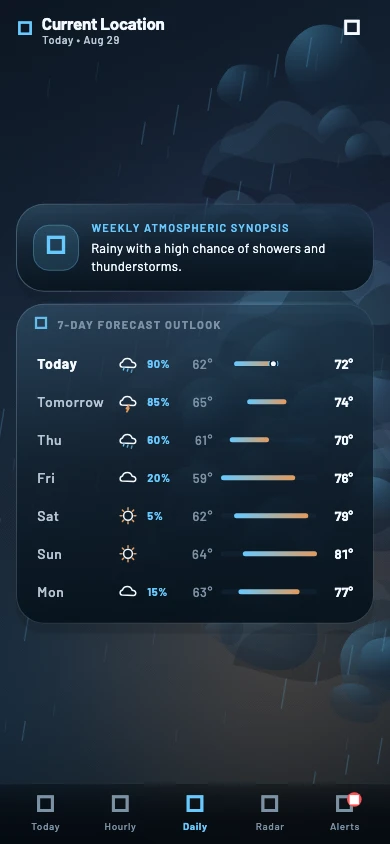
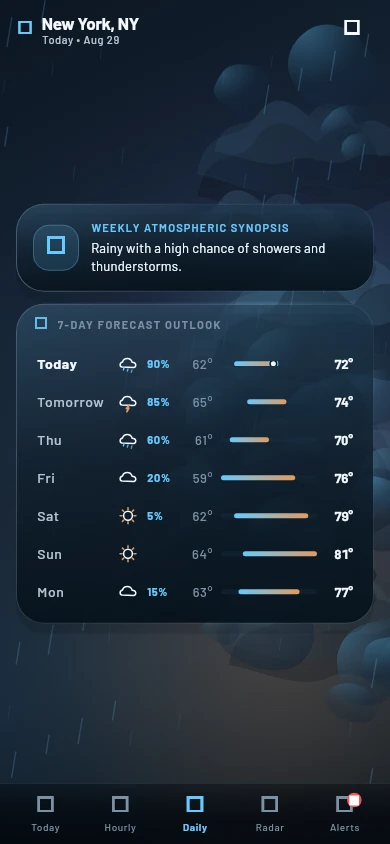
chore(weatheros): update storefront screenshots to v1.0.6 New York captures and align App Store CTAs

diff --git a/weatheros.html b/weatheros.html
@@ -3,8 +3,8 @@
 <head>
   <meta charset="UTF-8" />
   <meta name="viewport" content="width=device-width, initial-scale=1.0, viewport-fit=cover" />
-  <title>WeatherOS — Clean, Ad-Free Weather App for iOS &amp; Android ($0.99)</title>
-  <meta name="description" content="WeatherOS is a clean, ad-free weather app for Android and iPhone ($0.99). Real-time rain radar sync, 7-day visual forecasts, and severe storm alerts with zero ad tracking." />
+  <title>WeatherOS by OTP — Clean, Ad-Free Weather App for iOS &amp; Android ($0.99)</title>
+  <meta name="description" content="WeatherOS by OTP is a clean, ad-free weather app for iPhone and Android ($0.99). Real-time rain radar sync, 7-day visual forecasts, and severe storm alerts with zero ad tracking." />
   <meta name="keywords" content="WeatherOS, ad-free weather app, private weather app, weather app no subscription, dark mode weather app, live radar weather app, iPhone weather app, Android weather app, 7-day forecast app, severe storm alerts, OnlyTruePerspective" />
   <meta name="theme-color" content="#030305" />
   <meta name="color-scheme" content="dark light" />
@@ -14,12 +14,12 @@
   <meta property="og:type" content="website" />
   <meta property="og:site_name" content="OnlyTruePerspective" />
   <meta property="og:url" content="https://www.onlytrueperspective.tech/weatheros" />
-  <meta property="og:title" content="WeatherOS — Clean, Ad-Free Weather App ($0.99)" />
-  <meta property="og:description" content="Live rain radar sync, 7-day visual forecasts, and severe storm alerts in a sleek dark design. Zero ads, zero subscriptions, and no ad tracking." />
+  <meta property="og:title" content="WeatherOS by OTP — Clean, Ad-Free Weather App ($0.99)" />
+  <meta property="og:description" content="Now live on the Apple App Store and Google Play. Live rain radar sync, 7-day visual forecasts, and severe storm alerts in a sleek dark design." />
   <meta property="og:image" content="https://www.onlytrueperspective.tech/assets/weatheros/screenshots/today-public.png" />
   <meta name="twitter:card" content="summary_large_image" />
-  <meta name="twitter:title" content="WeatherOS — Clean, Ad-Free Weather App ($0.99)" />
-  <meta name="twitter:description" content="Live rain radar sync, 7-day visual forecasts, and severe storm alerts in a sleek dark design. Zero ads, zero subscriptions, and no ad tracking." />
+  <meta name="twitter:title" content="WeatherOS by OTP — Clean, Ad-Free Weather App ($0.99)" />
+  <meta name="twitter:description" content="Now live on the Apple App Store and Google Play. Live rain radar sync, 7-day visual forecasts, and severe storm alerts in a sleek dark design." />
   <meta name="twitter:image" content="https://www.onlytrueperspective.tech/assets/weatheros/screenshots/today-public.png" />
 
   <!-- Schema.org Structured Data -->
@@ -1189,7 +1189,7 @@
 
       <div class="w-badge-pill">
         <span class="w-badge-dot"></span>
-        <span>WeatherOS v1.0.4 · The Ad-Free Weather App</span>
+        <span>WeatherOS by OTP · Now Live on iOS &amp; Android</span>
       </div>
 
       <h1 class="w-hero-title">
@@ -1223,17 +1223,17 @@
           </div>
         </a>
 
-        <!-- Apple App Store (In Review / Coming Soon) -->
-        <div class="w-store-btn disabled" aria-disabled="true" title="iOS version is currently in App Store review">
+        <!-- Apple App Store (Live) -->
+        <a href="https://apps.apple.com/ai/app/weatheros-by-otp/id6803727019" target="_blank" rel="noopener noreferrer" class="w-store-btn primary" title="Get WeatherOS by OTP on the Apple App Store">
           <svg class="w-store-icon" viewBox="0 0 24 24" fill="currentColor">
             <path d="M18.71 19.5c-.83 1.24-1.71 2.45-3.05 2.47-1.34.03-1.77-.79-3.29-.79-1.53 0-2 .77-3.27.82-1.31.05-2.3-1.32-3.14-2.53C4.25 17 2.94 12.45 4.7 9.39c.87-1.52 2.43-2.48 4.12-2.51 1.28-.02 2.5.87 3.29.87.78 0 2.26-1.07 3.81-.91.65.03 2.47.26 3.64 1.98-.09.06-2.17 1.28-2.15 3.81.03 3.02 2.65 4.03 2.68 4.04-.03.07-.42 1.44-1.38 2.83M15.97 6.86c.62-.77 1.04-1.84.93-2.91-.9.04-2 .6-2.65 1.36-.58.67-.99 1.76-.88 2.8 1 .08 2-.48 2.6-1.25z"/>
           </svg>
           <div class="w-store-text">
-            <span class="w-store-sub">App Store</span>
-            <span class="w-store-main">Coming Soon</span>
-            <span class="w-status-badge">In Review</span>
+            <span class="w-store-sub">Available Now On</span>
+            <span class="w-store-main">App Store</span>
+            <span class="w-status-badge">Live</span>
           </div>
-        </div>
+        </a>
       </div>
 
       <div class="w-trust-strip">
@@ -1252,7 +1252,7 @@
         <div class="w-phone-card">
           <picture>
             <source srcset="/assets/weatheros/screenshots/today-public.webp" type="image/webp" />
-            <img src="/assets/weatheros/screenshots/today-public.png" alt="WeatherOS Today screen showing real-time atmospheric rainfall in Current Location with hourly forecast and 7-day outlook" width="390" height="844" loading="eager" decoding="async" />
+            <img src="/assets/weatheros/screenshots/today-public.png" alt="WeatherOS Today screen showing real-time atmospheric rainfall in New York, NY with hourly forecast and 7-day outlook" width="390" height="844" loading="eager" decoding="async" />
           </picture>
         </div>
       </div>
@@ -1482,7 +1482,7 @@
               <td class="w-specs-label">Platforms &amp; Availability</td>
               <td class="w-specs-val">
                 <strong>Android 10.0+:</strong> Available Now on Google Play<br />
-                <strong>iOS 15.0+:</strong> In App Store Review · Coming Soon
+                <strong>iOS 15.0+:</strong> Available Now on the Apple App Store as WeatherOS by OTP
               </td>
             </tr>
             <tr>
@@ -1514,7 +1514,7 @@
     <section class="w-bottom-cta" id="download">
       <h2>Get WeatherOS Today.</h2>
       <p>
-        Available now on Google Play for $0.99. No ads, no monthly subscriptions, and no ad tracking.
+        Available now on the Apple App Store and Google Play for $0.99. No ads, no monthly subscriptions, and no ad tracking.
       </p>
 
       <div class="w-store-buttons" style="margin-bottom: 0;">
@@ -1529,17 +1529,17 @@
           </div>
         </a>
 
-        <!-- Apple App Store (In Review / Coming Soon) -->
-        <div class="w-store-btn disabled" aria-disabled="true" title="iOS version is currently in App Store review">
+        <!-- Apple App Store (Live) -->
+        <a href="https://apps.apple.com/ai/app/weatheros-by-otp/id6803727019" target="_blank" rel="noopener noreferrer" class="w-store-btn primary" title="Get WeatherOS by OTP on the Apple App Store">
           <svg class="w-store-icon" viewBox="0 0 24 24" fill="currentColor">
             <path d="M18.71 19.5c-.83 1.24-1.71 2.45-3.05 2.47-1.34.03-1.77-.79-3.29-.79-1.53 0-2 .77-3.27.82-1.31.05-2.3-1.32-3.14-2.53C4.25 17 2.94 12.45 4.7 9.39c.87-1.52 2.43-2.48 4.12-2.51 1.28-.02 2.5.87 3.29.87.78 0 2.26-1.07 3.81-.91.65.03 2.47.26 3.64 1.98-.09.06-2.17 1.28-2.15 3.81.03 3.02 2.65 4.03 2.68 4.04-.03.07-.42 1.44-1.38 2.83M15.97 6.86c.62-.77 1.04-1.84.93-2.91-.9.04-2 .6-2.65 1.36-.58.67-.99 1.76-.88 2.8 1 .08 2-.48 2.6-1.25z"/>
           </svg>
           <div class="w-store-text">
-            <span class="w-store-sub">App Store</span>
-            <span class="w-store-main">Coming Soon</span>
-            <span class="w-status-badge">In Review</span>
+            <span class="w-store-sub">Available Now On</span>
+            <span class="w-store-main">App Store</span>
+            <span class="w-status-badge">Live</span>
           </div>
-        </div>
+        </a>
       </div>
     </section>
 

diff --git a/weatheros/index.html b/weatheros/index.html
@@ -3,8 +3,8 @@
 <head>
   <meta charset="UTF-8" />
   <meta name="viewport" content="width=device-width, initial-scale=1.0, viewport-fit=cover" />
-  <title>WeatherOS — Clean, Ad-Free Weather App for iOS &amp; Android ($0.99)</title>
-  <meta name="description" content="WeatherOS is a clean, ad-free weather app for Android and iPhone ($0.99). Real-time rain radar sync, 7-day visual forecasts, and severe storm alerts with zero ad tracking." />
+  <title>WeatherOS by OTP — Clean, Ad-Free Weather App for iOS &amp; Android ($0.99)</title>
+  <meta name="description" content="WeatherOS by OTP is a clean, ad-free weather app for iPhone and Android ($0.99). Real-time rain radar sync, 7-day visual forecasts, and severe storm alerts with zero ad tracking." />
   <meta name="keywords" content="WeatherOS, ad-free weather app, private weather app, weather app no subscription, dark mode weather app, live radar weather app, iPhone weather app, Android weather app, 7-day forecast app, severe storm alerts, OnlyTruePerspective" />
   <meta name="theme-color" content="#030305" />
   <meta name="color-scheme" content="dark light" />
@@ -14,12 +14,12 @@
   <meta property="og:type" content="website" />
   <meta property="og:site_name" content="OnlyTruePerspective" />
   <meta property="og:url" content="https://www.onlytrueperspective.tech/weatheros" />
-  <meta property="og:title" content="WeatherOS — Clean, Ad-Free Weather App ($0.99)" />
-  <meta property="og:description" content="Live rain radar sync, 7-day visual forecasts, and severe storm alerts in a sleek dark design. Zero ads, zero subscriptions, and no ad tracking." />
+  <meta property="og:title" content="WeatherOS by OTP — Clean, Ad-Free Weather App ($0.99)" />
+  <meta property="og:description" content="Now live on the Apple App Store and Google Play. Live rain radar sync, 7-day visual forecasts, and severe storm alerts in a sleek dark design." />
   <meta property="og:image" content="https://www.onlytrueperspective.tech/assets/weatheros/screenshots/today-public.png" />
   <meta name="twitter:card" content="summary_large_image" />
-  <meta name="twitter:title" content="WeatherOS — Clean, Ad-Free Weather App ($0.99)" />
-  <meta name="twitter:description" content="Live rain radar sync, 7-day visual forecasts, and severe storm alerts in a sleek dark design. Zero ads, zero subscriptions, and no ad tracking." />
+  <meta name="twitter:title" content="WeatherOS by OTP — Clean, Ad-Free Weather App ($0.99)" />
+  <meta name="twitter:description" content="Now live on the Apple App Store and Google Play. Live rain radar sync, 7-day visual forecasts, and severe storm alerts in a sleek dark design." />
   <meta name="twitter:image" content="https://www.onlytrueperspective.tech/assets/weatheros/screenshots/today-public.png" />
 
   <!-- Schema.org Structured Data -->
@@ -1189,7 +1189,7 @@
 
       <div class="w-badge-pill">
         <span class="w-badge-dot"></span>
-        <span>WeatherOS v1.0.4 · The Ad-Free Weather App</span>
+        <span>WeatherOS by OTP · Now Live on iOS &amp; Android</span>
       </div>
 
       <h1 class="w-hero-title">
@@ -1223,17 +1223,17 @@
           </div>
         </a>
 
-        <!-- Apple App Store (In Review / Coming Soon) -->
-        <div class="w-store-btn disabled" aria-disabled="true" title="iOS version is currently in App Store review">
+        <!-- Apple App Store (Live) -->
+        <a href="https://apps.apple.com/ai/app/weatheros-by-otp/id6803727019" target="_blank" rel="noopener noreferrer" class="w-store-btn primary" title="Get WeatherOS by OTP on the Apple App Store">
           <svg class="w-store-icon" viewBox="0 0 24 24" fill="currentColor">
             <path d="M18.71 19.5c-.83 1.24-1.71 2.45-3.05 2.47-1.34.03-1.77-.79-3.29-.79-1.53 0-2 .77-3.27.82-1.31.05-2.3-1.32-3.14-2.53C4.25 17 2.94 12.45 4.7 9.39c.87-1.52 2.43-2.48 4.12-2.51 1.28-.02 2.5.87 3.29.87.78 0 2.26-1.07 3.81-.91.65.03 2.47.26 3.64 1.98-.09.06-2.17 1.28-2.15 3.81.03 3.02 2.65 4.03 2.68 4.04-.03.07-.42 1.44-1.38 2.83M15.97 6.86c.62-.77 1.04-1.84.93-2.91-.9.04-2 .6-2.65 1.36-.58.67-.99 1.76-.88 2.8 1 .08 2-.48 2.6-1.25z"/>
           </svg>
           <div class="w-store-text">
-            <span class="w-store-sub">App Store</span>
-            <span class="w-store-main">Coming Soon</span>
-            <span class="w-status-badge">In Review</span>
+            <span class="w-store-sub">Available Now On</span>
+            <span class="w-store-main">App Store</span>
+            <span class="w-status-badge">Live</span>
           </div>
-        </div>
+        </a>
       </div>
 
       <div class="w-trust-strip">
@@ -1252,7 +1252,7 @@
         <div class="w-phone-card">
           <picture>
             <source srcset="/assets/weatheros/screenshots/today-public.webp" type="image/webp" />
-            <img src="/assets/weatheros/screenshots/today-public.png" alt="WeatherOS Today screen showing real-time atmospheric rainfall in Current Location with hourly forecast and 7-day outlook" width="390" height="844" loading="eager" decoding="async" />
+            <img src="/assets/weatheros/screenshots/today-public.png" alt="WeatherOS Today screen showing real-time atmospheric rainfall in New York, NY with hourly forecast and 7-day outlook" width="390" height="844" loading="eager" decoding="async" />
           </picture>
         </div>
       </div>
@@ -1482,7 +1482,7 @@
               <td class="w-specs-label">Platforms &amp; Availability</td>
               <td class="w-specs-val">
                 <strong>Android 10.0+:</strong> Available Now on Google Play<br />
-                <strong>iOS 15.0+:</strong> In App Store Review · Coming Soon
+                <strong>iOS 15.0+:</strong> Available Now on the Apple App Store as WeatherOS by OTP
               </td>
             </tr>
             <tr>
@@ -1514,7 +1514,7 @@
     <section class="w-bottom-cta" id="download">
       <h2>Get WeatherOS Today.</h2>
       <p>
-        Available now on Google Play for $0.99. No ads, no monthly subscriptions, and no ad tracking.
+        Available now on the Apple App Store and Google Play for $0.99. No ads, no monthly subscriptions, and no ad tracking.
       </p>
 
       <div class="w-store-buttons" style="margin-bottom: 0;">
@@ -1529,17 +1529,17 @@
           </div>
         </a>
 
-        <!-- Apple App Store (In Review / Coming Soon) -->
-        <div class="w-store-btn disabled" aria-disabled="true" title="iOS version is currently in App Store review">
+        <!-- Apple App Store (Live) -->
+        <a href="https://apps.apple.com/ai/app/weatheros-by-otp/id6803727019" target="_blank" rel="noopener noreferrer" class="w-store-btn primary" title="Get WeatherOS by OTP on the Apple App Store">
           <svg class="w-store-icon" viewBox="0 0 24 24" fill="currentColor">
             <path d="M18.71 19.5c-.83 1.24-1.71 2.45-3.05 2.47-1.34.03-1.77-.79-3.29-.79-1.53 0-2 .77-3.27.82-1.31.05-2.3-1.32-3.14-2.53C4.25 17 2.94 12.45 4.7 9.39c.87-1.52 2.43-2.48 4.12-2.51 1.28-.02 2.5.87 3.29.87.78 0 2.26-1.07 3.81-.91.65.03 2.47.26 3.64 1.98-.09.06-2.17 1.28-2.15 3.81.03 3.02 2.65 4.03 2.68 4.04-.03.07-.42 1.44-1.38 2.83M15.97 6.86c.62-.77 1.04-1.84.93-2.91-.9.04-2 .6-2.65 1.36-.58.67-.99 1.76-.88 2.8 1 .08 2-.48 2.6-1.25z"/>
           </svg>
           <div class="w-store-text">
-            <span class="w-store-sub">App Store</span>
-            <span class="w-store-main">Coming Soon</span>
-            <span class="w-status-badge">In Review</span>
+            <span class="w-store-sub">Available Now On</span>
+            <span class="w-store-main">App Store</span>
+            <span class="w-status-badge">Live</span>
           </div>
-        </div>
+        </a>
       </div>
     </section>
 
